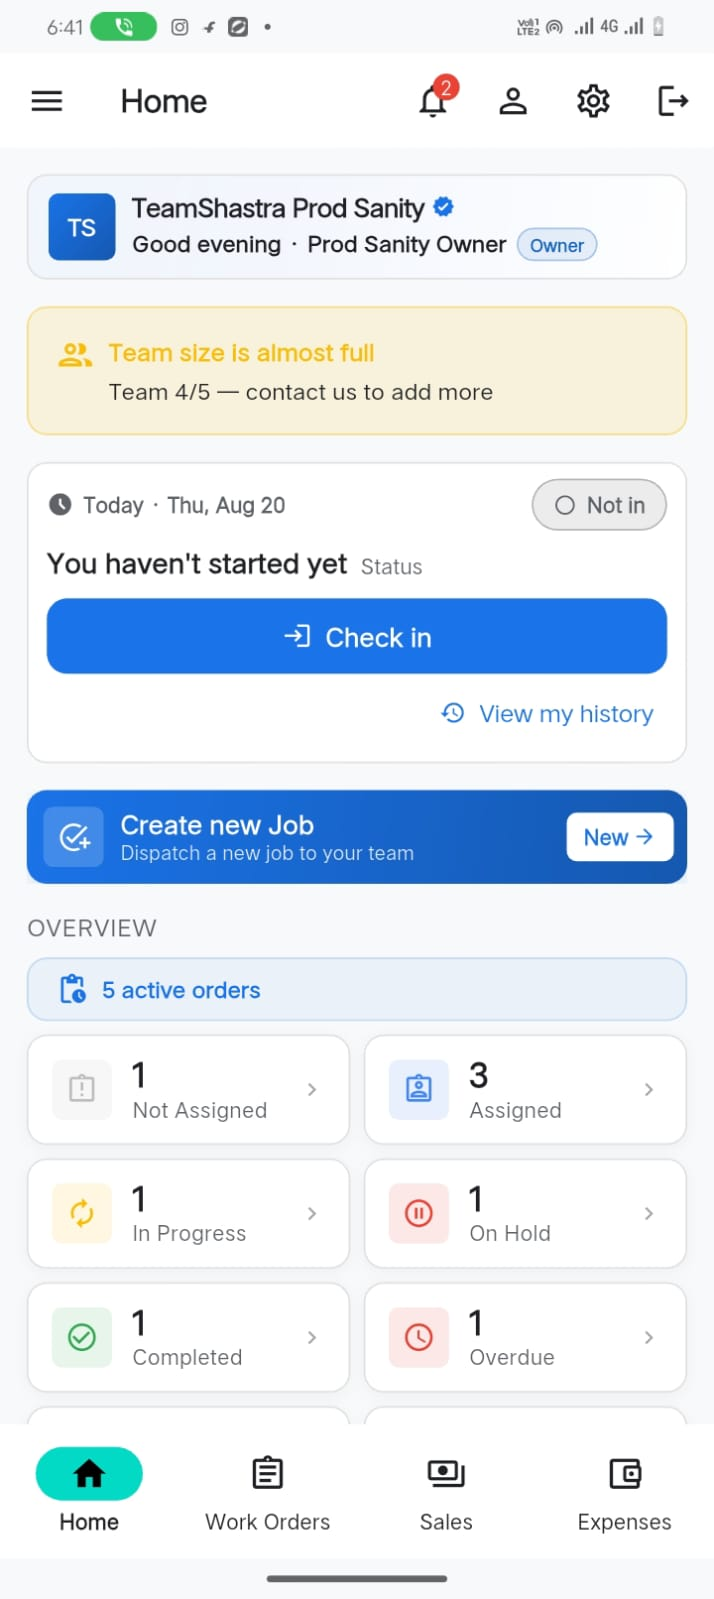
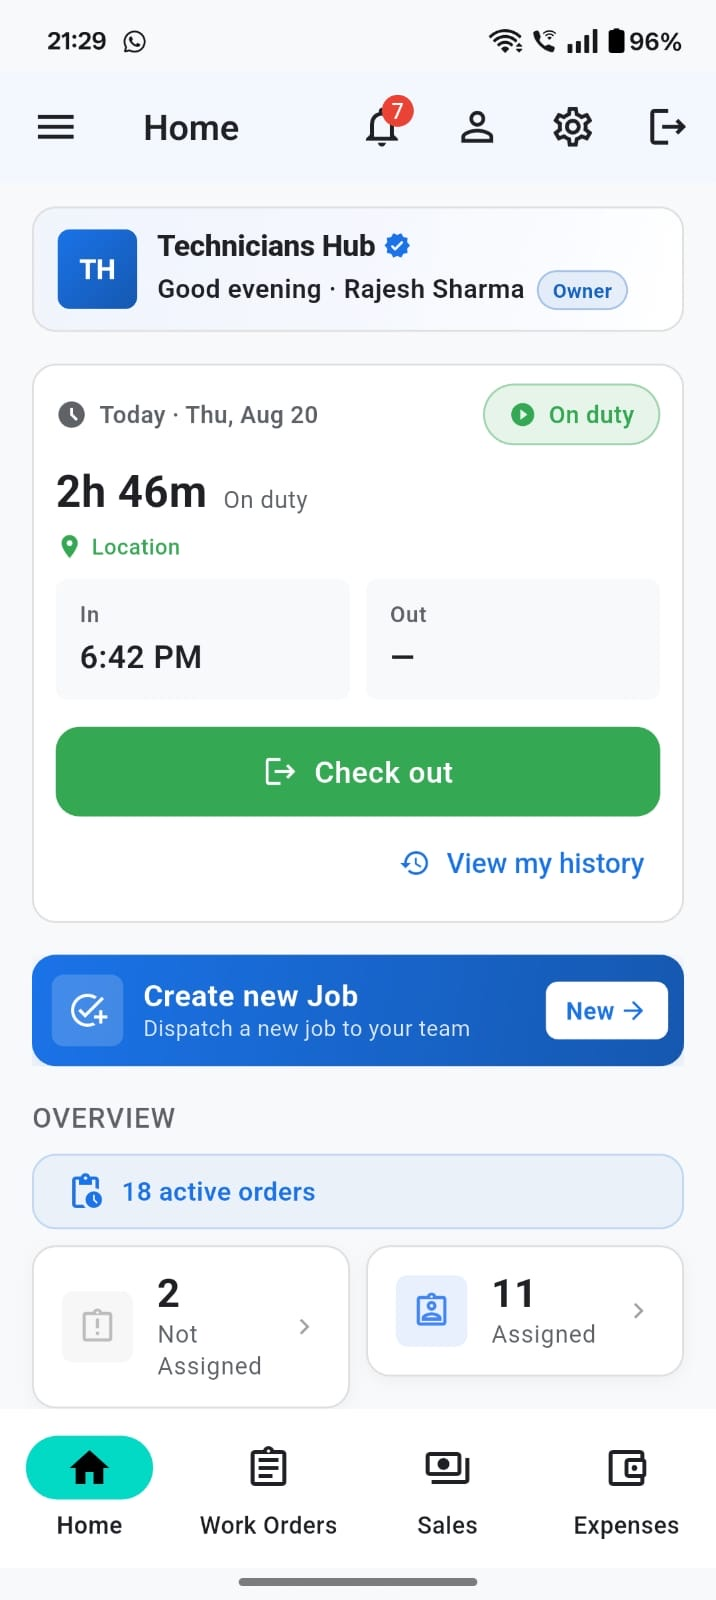
Refresh marketing site with latest real app screenshots.

diff --git a/lib/screenshots.ts b/lib/screenshots.ts
@@ -2,49 +2,80 @@ export const appScreenshots = [
   {
     src: "/screenshots/01-home-dashboard.jpg",
     title: "Home dashboard",
-    alt: "TeamShastra home dashboard with profile, check-in, and job overview",
-    caption: "Check in, create a job, and see today's overview."
+    alt: "TeamShastra home dashboard with check-in, create job, and active orders overview",
+    caption: "Start the day with check-in, new jobs, and live order counts."
   },
   {
-    src: "/screenshots/02-attendance-checkin.jpg",
-    title: "Attendance",
-    alt: "TeamShastra attendance screen showing on-duty status and check-out",
-    caption: "On-duty status, location, and check-out from the field."
+    src: "/screenshots/11-quick-actions.jpg",
+    title: "Quick actions",
+    alt: "TeamShastra home quick actions for jobs, quotations, invoices, customers, and team",
+    caption: "Jump to the next action without digging through menus."
   },
   {
-    src: "/screenshots/03-home-overview.jpg",
-    title: "Overview",
-    alt: "TeamShastra home overview with job counts and quick actions",
-    caption: "Job counts and quick actions on one screen."
-  },
-  {
-    src: "/screenshots/04-recent-work-orders.jpg",
-    title: "Recent jobs",
-    alt: "Recent work orders listed on the TeamShastra home screen",
-    caption: "Recent work orders without leaving Home."
-  },
-  {
-    src: "/screenshots/05-work-orders.jpg",
+    src: "/screenshots/02-work-orders.jpg",
     title: "Work orders",
-    alt: "TeamShastra work orders list with status, assignee, and search",
-    caption: "Search, filter, and assign jobs."
+    alt: "TeamShastra work orders list with status, priority, customer, and assignees",
+    caption: "Search, filter, and keep every job moving."
   },
   {
-    src: "/screenshots/06-team.jpg",
+    src: "/screenshots/03-todays-jobs.jpg",
+    title: "Today's jobs",
+    alt: "TeamShastra today's jobs board with not started and in progress columns",
+    caption: "See what is queued and what is already in progress."
+  },
+  {
+    src: "/screenshots/12-attendance-checkin.jpg",
+    title: "Attendance",
+    alt: "TeamShastra attendance check-in with on-duty status",
+    caption: "Field check-in and check-out when the shift starts."
+  },
+  {
+    src: "/screenshots/04-team-attendance.jpg",
+    title: "Team attendance",
+    alt: "TeamShastra team attendance screen showing who is on duty or not in",
+    caption: "Managers see who is on duty across the team."
+  },
+  {
+    src: "/screenshots/05-sales-quotations.jpg",
+    title: "Sales",
+    alt: "TeamShastra sales quotations list with totals and status",
+    caption: "Quotations ready to send and track."
+  },
+  {
+    src: "/screenshots/06-expenses.jpg",
+    title: "Expenses",
+    alt: "TeamShastra expenses list with categories and amounts",
+    caption: "Capture field spend with clear categories."
+  },
+  {
+    src: "/screenshots/07-team-members.jpg",
     title: "Team",
-    alt: "TeamShastra team members list with roles and status",
-    caption: "Invite technicians and managers."
+    alt: "TeamShastra team members list with roles and active status",
+    caption: "Owners, managers, and technicians in one roster."
   },
   {
-    src: "/screenshots/07-customers.jpg",
+    src: "/screenshots/08-customers.jpg",
     title: "Customers",
-    alt: "TeamShastra customers directory",
-    caption: "Keep customers next to the jobs they need."
+    alt: "TeamShastra customers directory with phone, email, and address",
+    caption: "Customer records next to the jobs they need."
+  },
+  {
+    src: "/screenshots/09-activity-photos.jpg",
+    title: "Job photos",
+    alt: "TeamShastra work order activity with before and after photos",
+    caption: "Before/after proof stays on the job timeline."
+  },
+  {
+    src: "/screenshots/10-reports-summary.jpg",
+    title: "Reports",
+    alt: "TeamShastra reports summary with charts for jobs and revenue",
+    caption: "A clear view of throughput and revenue."
   }
 ] as const;
 
+/** Three phones in the homepage hero — front phone is index 1. */
 export const heroScreenshots = [
-  appScreenshots[4],
-  appScreenshots[0],
-  appScreenshots[5]
+  appScreenshots[2], // work orders
+  appScreenshots[0], // home dashboard (front)
+  appScreenshots[6] // sales
 ] as const;

diff --git a/app/globals.css b/app/globals.css
@@ -45,13 +45,20 @@ h3 { font-size: 1.18rem; }
 .beta-note { max-width: 690px; margin: 16px 0 0; color: var(--muted); font-size: 0.98rem; font-weight: 680; }
 .trust-row { display: flex; flex-wrap: wrap; gap: 14px; margin-top: 32px; color: var(--muted); font-weight: 680; }
 .trust-row span { border-left: 3px solid var(--accent); padding-left: 10px; }
-.hero-shots { display: flex; align-items: flex-end; justify-content: center; gap: 14px; min-height: 460px; max-width: 100%; }
-.phone-frame { width: min(210px, 28vw); margin: 0; padding: 8px; border-radius: 28px; background: #17201c; box-shadow: 0 22px 48px rgba(23, 32, 28, 0.18); overflow: hidden; flex: 0 1 auto; }
+.hero-shots { display: flex; align-items: flex-end; justify-content: center; gap: 10px; min-height: 500px; max-width: 100%; perspective: 1200px; }
+.phone-frame { width: min(210px, 28vw); margin: 0; padding: 8px; border-radius: 28px; background: linear-gradient(160deg, #1c2a24, #0f1613); box-shadow: 0 22px 48px rgba(23, 32, 28, 0.18); overflow: hidden; flex: 0 1 auto; transition: transform 0.35s ease, box-shadow 0.35s ease; }
 .phone-frame img, .phone-frame span { width: 100% !important; height: auto !important; max-width: 100%; border-radius: 20px; }
-.phone-frame-front { width: min(248px, 34vw); transform: translateY(8px); z-index: 1; box-shadow: 0 28px 56px rgba(23, 32, 28, 0.24); }
-.phone-frame-gallery { width: 100%; }
-.shot-gallery { display: grid; grid-template-columns: repeat(auto-fill, minmax(140px, 1fr)); gap: 16px; }
+.phone-frame-left { transform: rotate(-7deg) translateY(28px); opacity: 0.92; }
+.phone-frame-right { transform: rotate(7deg) translateY(28px); opacity: 0.92; }
+.phone-frame-front { width: min(248px, 34vw); transform: translateY(4px) scale(1.04); z-index: 1; box-shadow: 0 32px 64px rgba(23, 32, 28, 0.28); }
+.phone-frame-gallery { width: 100%; transform: none; opacity: 1; }
+.shot-section { background:
+  radial-gradient(700px 280px at 10% 0%, rgba(23, 111, 88, 0.08), transparent 55%),
+  var(--soft); }
+.shot-gallery { display: grid; grid-template-columns: repeat(auto-fill, minmax(150px, 1fr)); gap: 18px; }
 .shot-card { margin: 0; display: grid; gap: 12px; min-width: 0; }
+.shot-card .phone-frame-gallery { transition: transform 0.28s ease, box-shadow 0.28s ease; }
+.shot-card:hover .phone-frame-gallery { transform: translateY(-6px); box-shadow: 0 26px 48px rgba(23, 32, 28, 0.2); }
 .shot-card figcaption { display: grid; gap: 4px; }
 .shot-card figcaption strong { font-size: 0.95rem; }
 .shot-card figcaption span { color: var(--muted); font-size: 0.86rem; }
@@ -196,6 +203,7 @@ h3 { font-size: 1.18rem; }
   .hero-grid, .split-grid, .section-head, .banner, .footer-inner { grid-template-columns: 1fr; }
   .hero { min-height: auto; }
   .hero-shots { min-height: auto; }
+  .phone-frame-left, .phone-frame-right { transform: none; opacity: 1; }
   .shot-gallery { grid-template-columns: repeat(4, minmax(0, 1fr)); }
   .card-grid { grid-template-columns: repeat(2, minmax(0, 1fr)); }
 }
@@ -210,7 +218,8 @@ h3 { font-size: 1.18rem; }
   .phone-frame { width: min(120px, 28vw); border-radius: 18px; padding: 5px; }
   .phone-frame img { border-radius: 13px; }
   .phone-frame-front { width: min(220px, 68vw); transform: none; }
-  .shot-gallery { grid-template-columns: repeat(2, minmax(0, 1fr)); }
+  .shot-gallery { grid-template-columns: repeat(2, minmax(0, 1fr)); gap: 14px; }
+  .shot-card:hover .phone-frame-gallery { transform: none; }
   .seo-case-grid, .seo-index-grid, .seo-feature-grid { grid-template-columns: 1fr; }
   .section { padding: 58px 0; }
   .banner { padding: 26px; }

diff --git a/components/AppScreenshots.tsx b/components/AppScreenshots.tsx
@@ -5,13 +5,16 @@ export function HeroAppPreview() {
   return (
     <div className="hero-shots" aria-label="TeamShastra app screenshots" data-testid="hero-app-preview">
       {heroScreenshots.map((shot, index) => (
-        <figure key={shot.src} className={`phone-frame${index === 1 ? " phone-frame-front" : ""}`}>
+        <figure
+          key={shot.src}
+          className={`phone-frame${index === 0 ? " phone-frame-left" : ""}${index === 1 ? " phone-frame-front" : ""}${index === 2 ? " phone-frame-right" : ""}`}
+        >
           <Image
             src={shot.src}
             alt={shot.alt}
             width={714}
             height={1599}
-            sizes="(max-width: 920px) 220px, 240px"
+            sizes="(max-width: 920px) 220px, 248px"
             priority={index === 1}
             style={{ width: "100%", height: "auto" }}
           />
@@ -23,12 +26,12 @@ export function HeroAppPreview() {
 
 export function AppScreenshotGallery() {
   return (
-    <section className="section alt" aria-labelledby="app-screens-heading">
+    <section className="section alt shot-section" aria-labelledby="app-screens-heading">
       <div className="section-inner">
         <div className="section-head">
-          <h2 id="app-screens-heading">The app, not a mockup.</h2>
+          <h2 id="app-screens-heading">The real TeamShastra app.</h2>
           <p className="section-copy">
-            These are live TeamShastra screens: home, attendance, work orders, team, and customers.
+            Live screens from the product — home, work orders, attendance, sales, expenses, team, customers, and reports.
           </p>
         </div>
         <div className="shot-gallery" data-testid="app-screenshot-gallery">
@@ -40,7 +43,7 @@ export function AppScreenshotGallery() {
                   alt={shot.alt}
                   width={714}
                   height={1599}
-                  sizes="180px"
+                  sizes="(max-width: 640px) 42vw, 180px"
                   style={{ width: "100%", height: "auto" }}
                 />
               </div>

diff --git a/app/page.tsx b/app/page.tsx
@@ -72,9 +72,9 @@ export default function Home() {
             <p className="section-copy">TeamShastra connects office teams, technicians, supervisors, and customers without mixing the public website with authenticated application workflows.</p>
           </div>
           <div className="card-grid">
-            <article className="card"><div className="icon-box">01</div><h3>Work orders</h3><p>Create jobs, assign technicians, update status, add photos, and share a completion report.</p></article>
-            <article className="card"><div className="icon-box">02</div><h3>Team and attendance</h3><p>Invite staff, check in and out, and let managers review the day.</p></article>
-            <article className="card"><div className="icon-box">03</div><h3>Customers and billing</h3><p>Keep customer records, send quotations and invoices, and chat with TeamShastra if you need help.</p></article>
+            <article className="card"><div className="icon-box">01</div><h3>Work orders</h3><p>Create jobs, assign technicians, track today&apos;s board, and keep before/after photos on the timeline.</p></article>
+            <article className="card"><div className="icon-box">02</div><h3>Team and attendance</h3><p>Invite staff, check in and out, and let managers see who is on duty.</p></article>
+            <article className="card"><div className="icon-box">03</div><h3>Sales, expenses, reports</h3><p>Quotations, invoices, field expenses, and summaries — with chat support when you need help.</p></article>
           </div>
         </div>
       </section>
